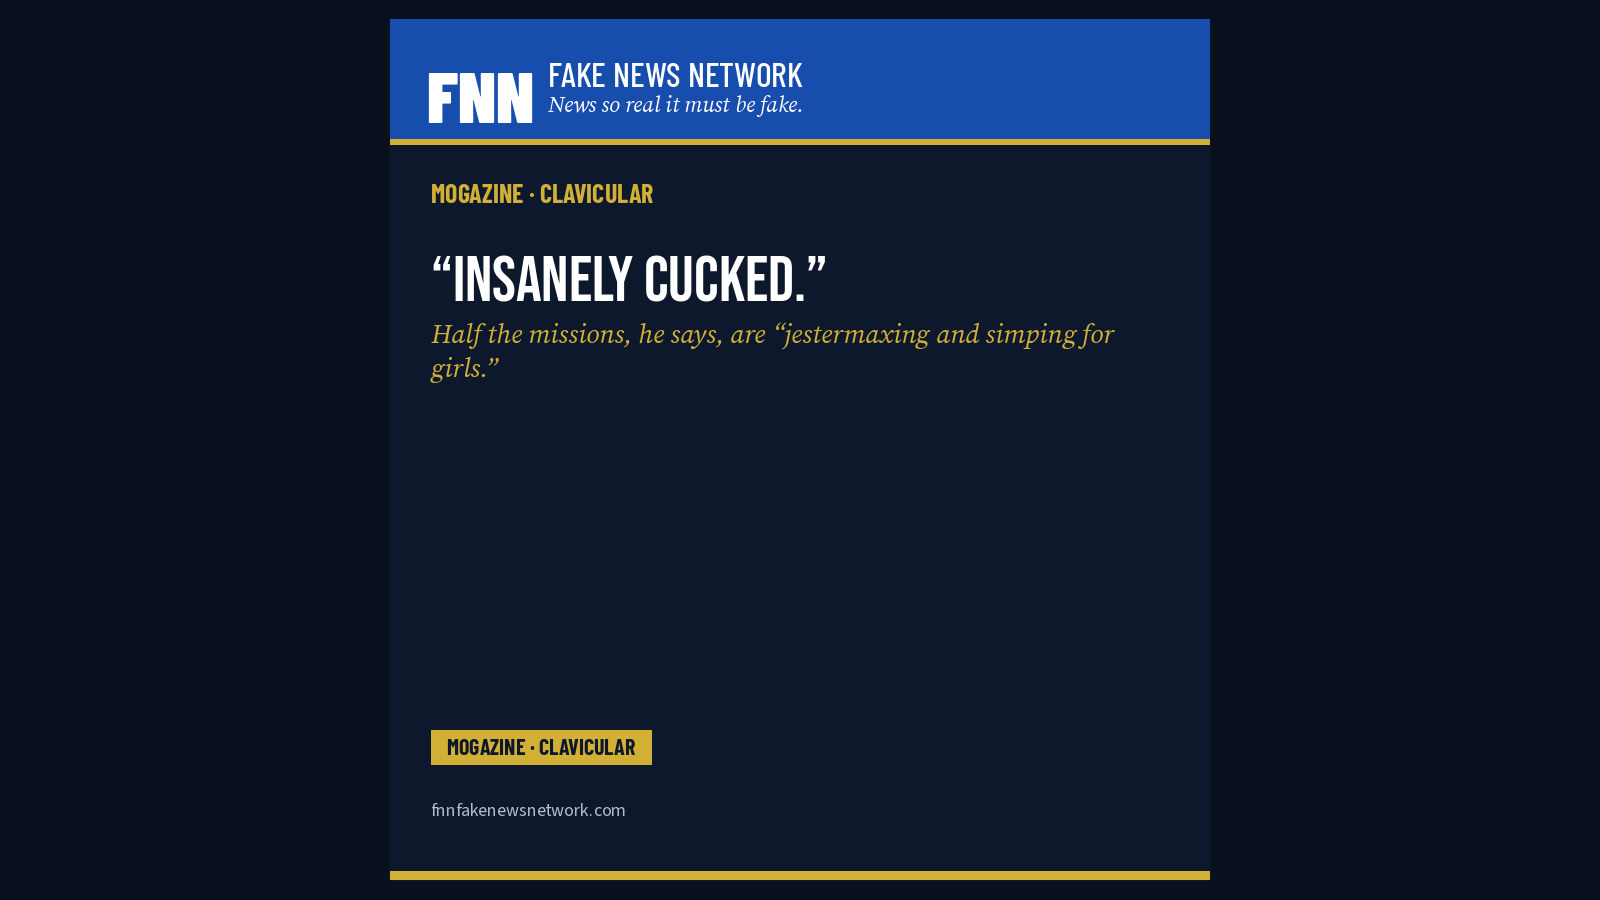
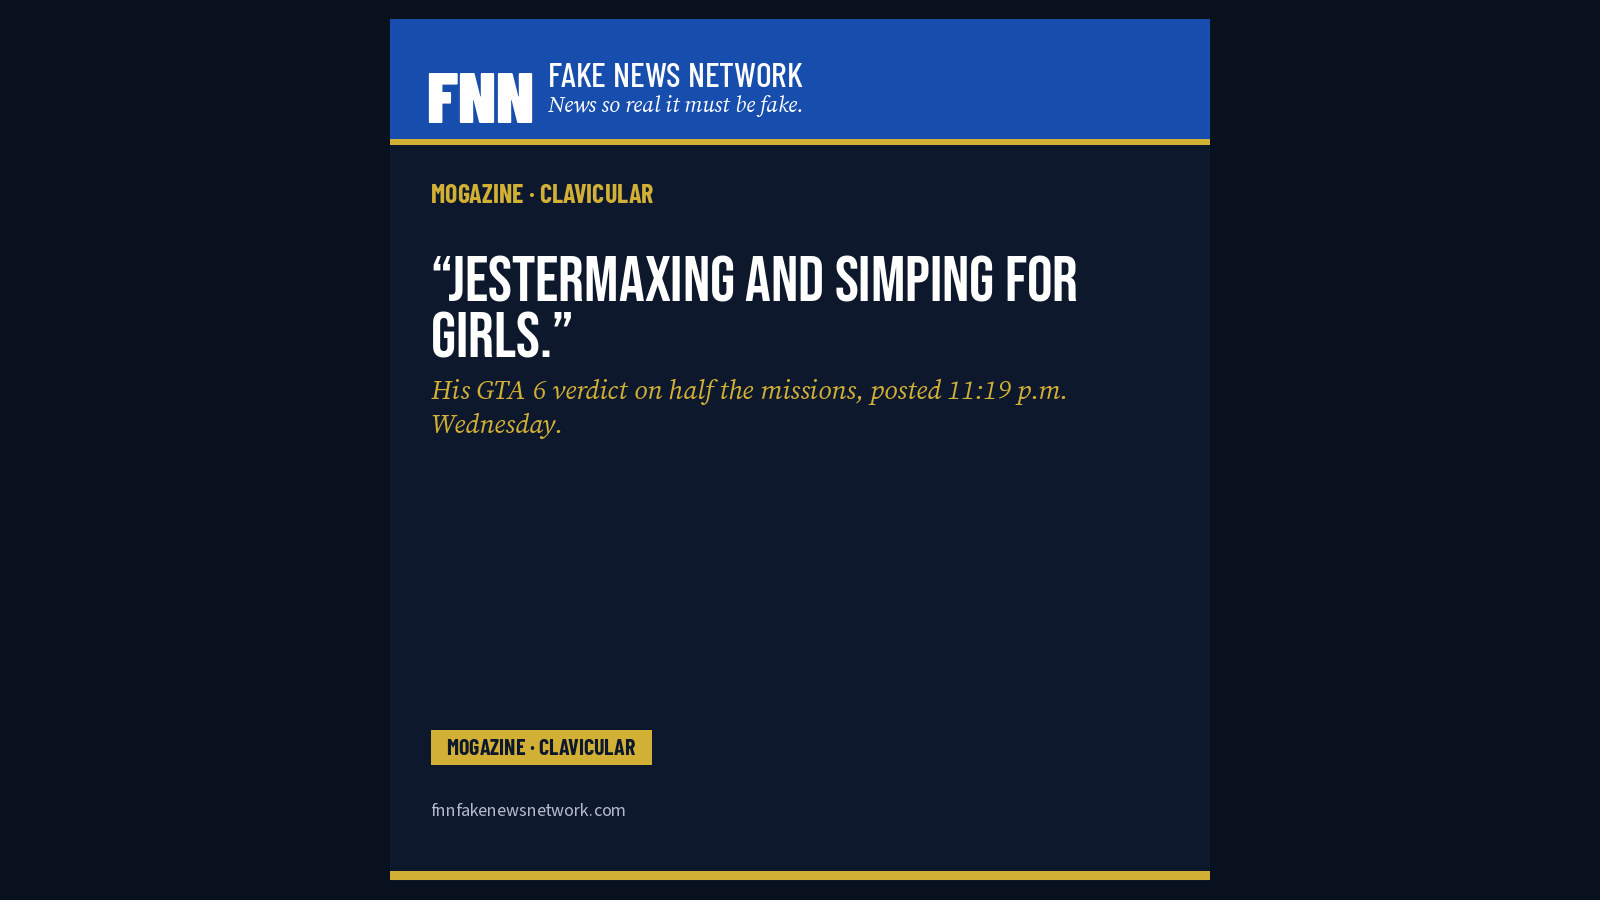
Fix MOGazine story clavicular-gta-6-insanely-cucked-review: paraphrase the crude word out of headline, deck, body, pull quote, record quote, share text and hero/og cards per MOGazine holds; slug, URL and facts unchanged.

Changed region(s): [[0.25, 0.28, 0.6875, 0.4978]]

diff --git a/s/clavicular-gta-6-insanely-cucked-review/index.html b/s/clavicular-gta-6-insanely-cucked-review/index.html
@@ -2,29 +2,29 @@
 <html lang="en"><head>
 <meta charset="utf-8">
 <meta name="viewport" content="width=device-width, initial-scale=1">
-<title>Clavicular Goes Live on GTA 6, Then Files His Verdict: “Insanely Cucked”</title>
-<meta name="description" content="Clavicular went live on GTA 6 Wednesday. By 11:19 p.m. he had a verdict: “insanely cucked,” with half the missions “jestermaxing and simping for girls.”">
+<title>Clavicular Goes Live on GTA 6, Then Files His Verdict: Too Much “Jestermaxing and Simping for Girls”</title>
+<meta name="description" content="Clavicular went live on GTA 6 Wednesday. By 11:19 p.m. he had a verdict: half the missions, he said, are “jestermaxing and simping for girls.”">
 <link rel="canonical" href="https://www.fnnfakenewsnetwork.com/story/clavicular-gta-6-insanely-cucked-review">
 <meta property="og:type" content="article">
 <meta property="og:site_name" content="FNN Fake News Network">
-<meta property="og:title" content="Clavicular Goes Live on GTA 6, Then Files His Verdict: “Insanely Cucked”">
-<meta property="og:description" content="Clavicular went live on GTA 6 Wednesday. By 11:19 p.m. he had a verdict: “insanely cucked,” with half the missions “jestermaxing and simping for girls.”">
+<meta property="og:title" content="Clavicular Goes Live on GTA 6, Then Files His Verdict: Too Much “Jestermaxing and Simping for Girls”">
+<meta property="og:description" content="Clavicular went live on GTA 6 Wednesday. By 11:19 p.m. he had a verdict: half the missions, he said, are “jestermaxing and simping for girls.”">
 <meta property="og:url" content="https://www.fnnfakenewsnetwork.com/story/clavicular-gta-6-insanely-cucked-review">
 <meta property="og:image" content="https://richdiskin.github.io/fnn-data/og/clavicular-gta-6-insanely-cucked-review.jpg">
 <meta property="og:image:secure_url" content="https://richdiskin.github.io/fnn-data/og/clavicular-gta-6-insanely-cucked-review.jpg">
 <meta property="og:image:type" content="image/jpeg">
 <meta property="og:image:width" content="1200">
 <meta property="og:image:height" content="630">
-<meta property="og:image:alt" content="FNN graphic: Insanely cucked">
+<meta property="og:image:alt" content="FNN graphic: Jestermaxing and simping for girls">
 <meta name="twitter:card" content="summary_large_image">
-<meta name="twitter:title" content="Clavicular Goes Live on GTA 6, Then Files His Verdict: “Insanely Cucked”">
-<meta name="twitter:description" content="Clavicular went live on GTA 6 Wednesday. By 11:19 p.m. he had a verdict: “insanely cucked,” with half the missions “jestermaxing and simping for girls.”">
+<meta name="twitter:title" content="Clavicular Goes Live on GTA 6, Then Files His Verdict: Too Much “Jestermaxing and Simping for Girls”">
+<meta name="twitter:description" content="Clavicular went live on GTA 6 Wednesday. By 11:19 p.m. he had a verdict: half the missions, he said, are “jestermaxing and simping for girls.”">
 <meta name="twitter:image" content="https://richdiskin.github.io/fnn-data/og/clavicular-gta-6-insanely-cucked-review.jpg">
-<meta name="twitter:image:alt" content="FNN graphic: Insanely cucked">
+<meta name="twitter:image:alt" content="FNN graphic: Jestermaxing and simping for girls">
 <script>location.replace("https://tulip-summit-leaf-blue.grok.me/story/clavicular-gta-6-insanely-cucked-review");</script>
 </head><body style="font-family:Georgia,serif;max-width:640px;margin:40px auto;padding:0 16px">
 <p><strong>FNN Fake News Network</strong></p>
-<h1 style="font-size:24px">Clavicular Goes Live on GTA 6, Then Files His Verdict: “Insanely Cucked”</h1>
-<p>Clavicular went live on GTA 6 Wednesday. By 11:19 p.m. he had a verdict: “insanely cucked,” with half the missions “jestermaxing and simping for girls.”</p>
+<h1 style="font-size:24px">Clavicular Goes Live on GTA 6, Then Files His Verdict: Too Much “Jestermaxing and Simping for Girls”</h1>
+<p>Clavicular went live on GTA 6 Wednesday. By 11:19 p.m. he had a verdict: half the missions, he said, are “jestermaxing and simping for girls.”</p>
 <p><a href="https://tulip-summit-leaf-blue.grok.me/story/clavicular-gta-6-insanely-cucked-review">Read the story on FNN</a></p>
 </body></html>
